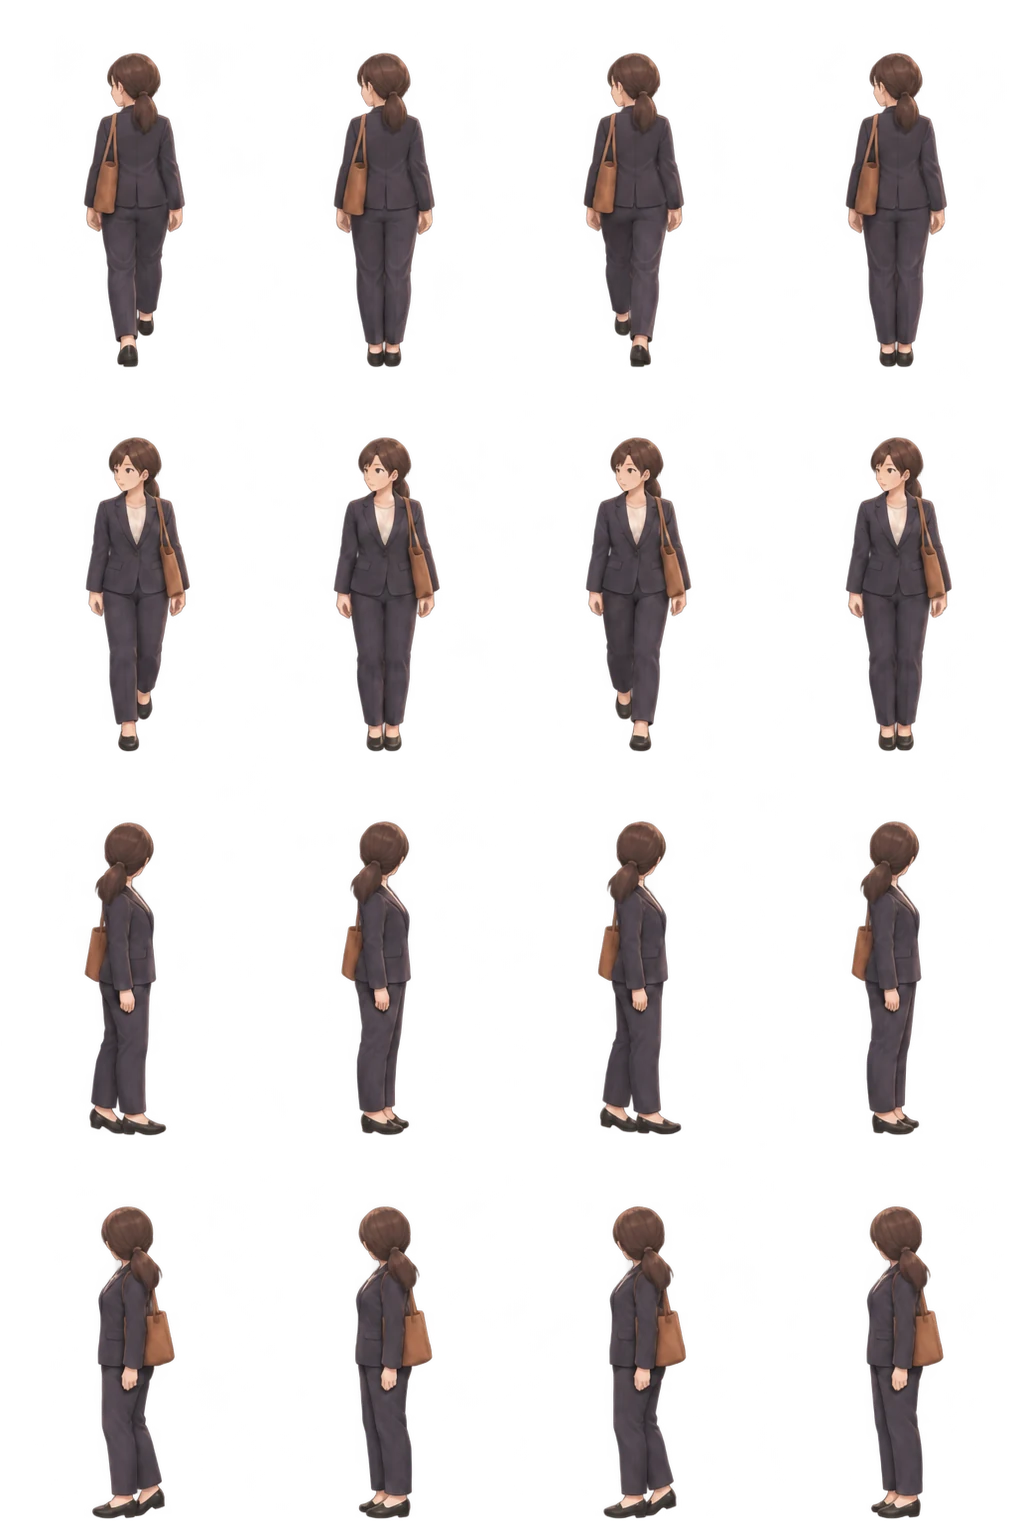
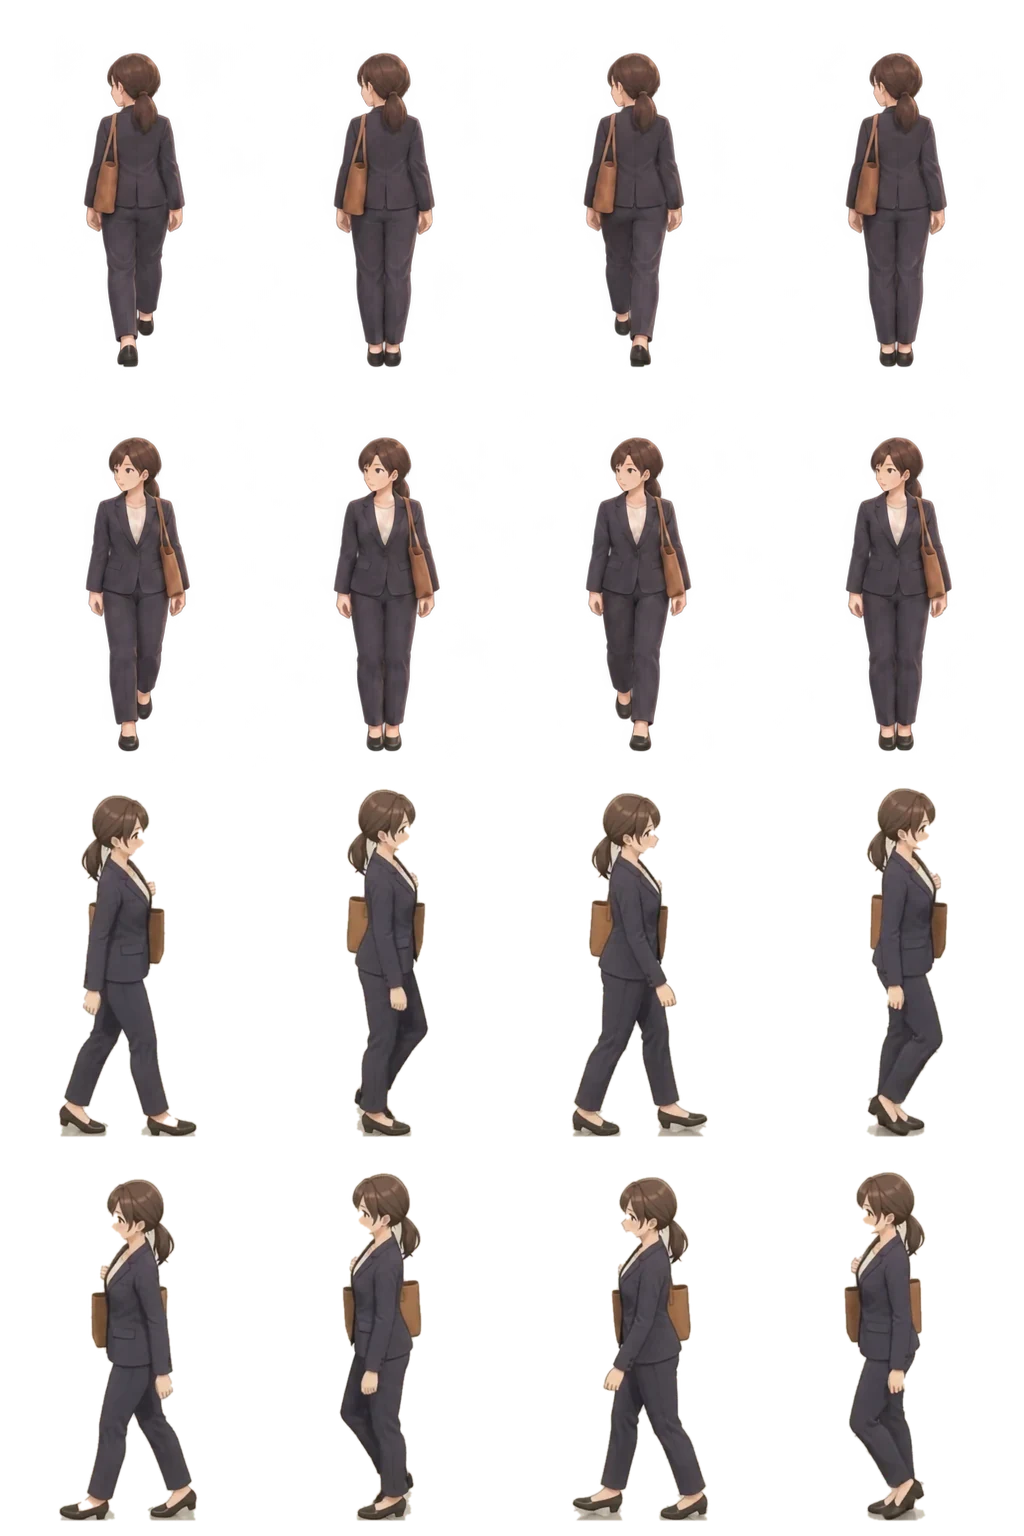
会社員（女性）の横向きの歩く絵を、Gemini の動画から切りぬいた絵に
Claude-Session: https://claude.ai/code/session_01Dy2hNCJfE2JLs3FzdefEKF

diff --git a/docs/HANDOFF.md b/docs/HANDOFF.md
@@ -748,3 +748,4 @@
 - **確かめたこと**：`tests/event-map.test.cjs`（形・一度だけ／毎年／毎週・暦の帯・運行日の日付が季節のできごとと同じ・近くの駅・まとめ・路線の保存をそろえても evs が残る・絵がすべてある・ゲームの38件すべてに絵がある・計算は DOM なし）。ほかのテストと lint も通る。ヘッドレス（Playwright）だけで：PC 1280幅・スマホ 390幅（タッチ）で、地図に吹き出しが出る・押すとカード・まとめた吹き出しで一覧・雨と開店の吹き出し・お絵かき帖で置く→印を探す→金の文字→大きめ→引っぱる→暦の帯で別の日（11/21）に置く→保存→ゲームを 11/14 で開くと出ない・11/21 で開くと出る→カードの「沿線だよりで読む」「売店を見る」が開く。**スマホ実機は未確認**。例のイベントはヘッドレスの中だけで、ユーザーの保存には入れていない。
 - **気になっていること**：列車の遅れ・運休そのものはまだ吹き出しにしていない（ゲームのイベントの「故障」「通行止め」と天気だけ）。工事の「何日から何日まで」はまだ（くり返しで代わりに）。画像は引き継ぎコードに入るので、たくさん付けると大きくなる。スマホのお絵かき帖ではシートが地図の下半分をおおう。
 - **次（第9回〜）**：予定の文のとおり。
+- 2026-11-14（ユーザーの頼み）：会社員（女性）の歩く絵の横向き（右・左）を、Gemini の歩く動画（docs/ref/scene-src/gemini_generated_video_834576e8.mp4）から切りぬいた絵に（動かないカメラなので、動画の床だけの絵を作って引く。床に映った影はくつの下で切る。右は左の反転）。奥・手前は ChatGPT の絵のまま。歩幅 stride 0.267。ほかの3本（スマホ・しゃがむ・手を伸ばす）は人がほとんど動かず、この切りぬき方が使えないので手本だけ。
